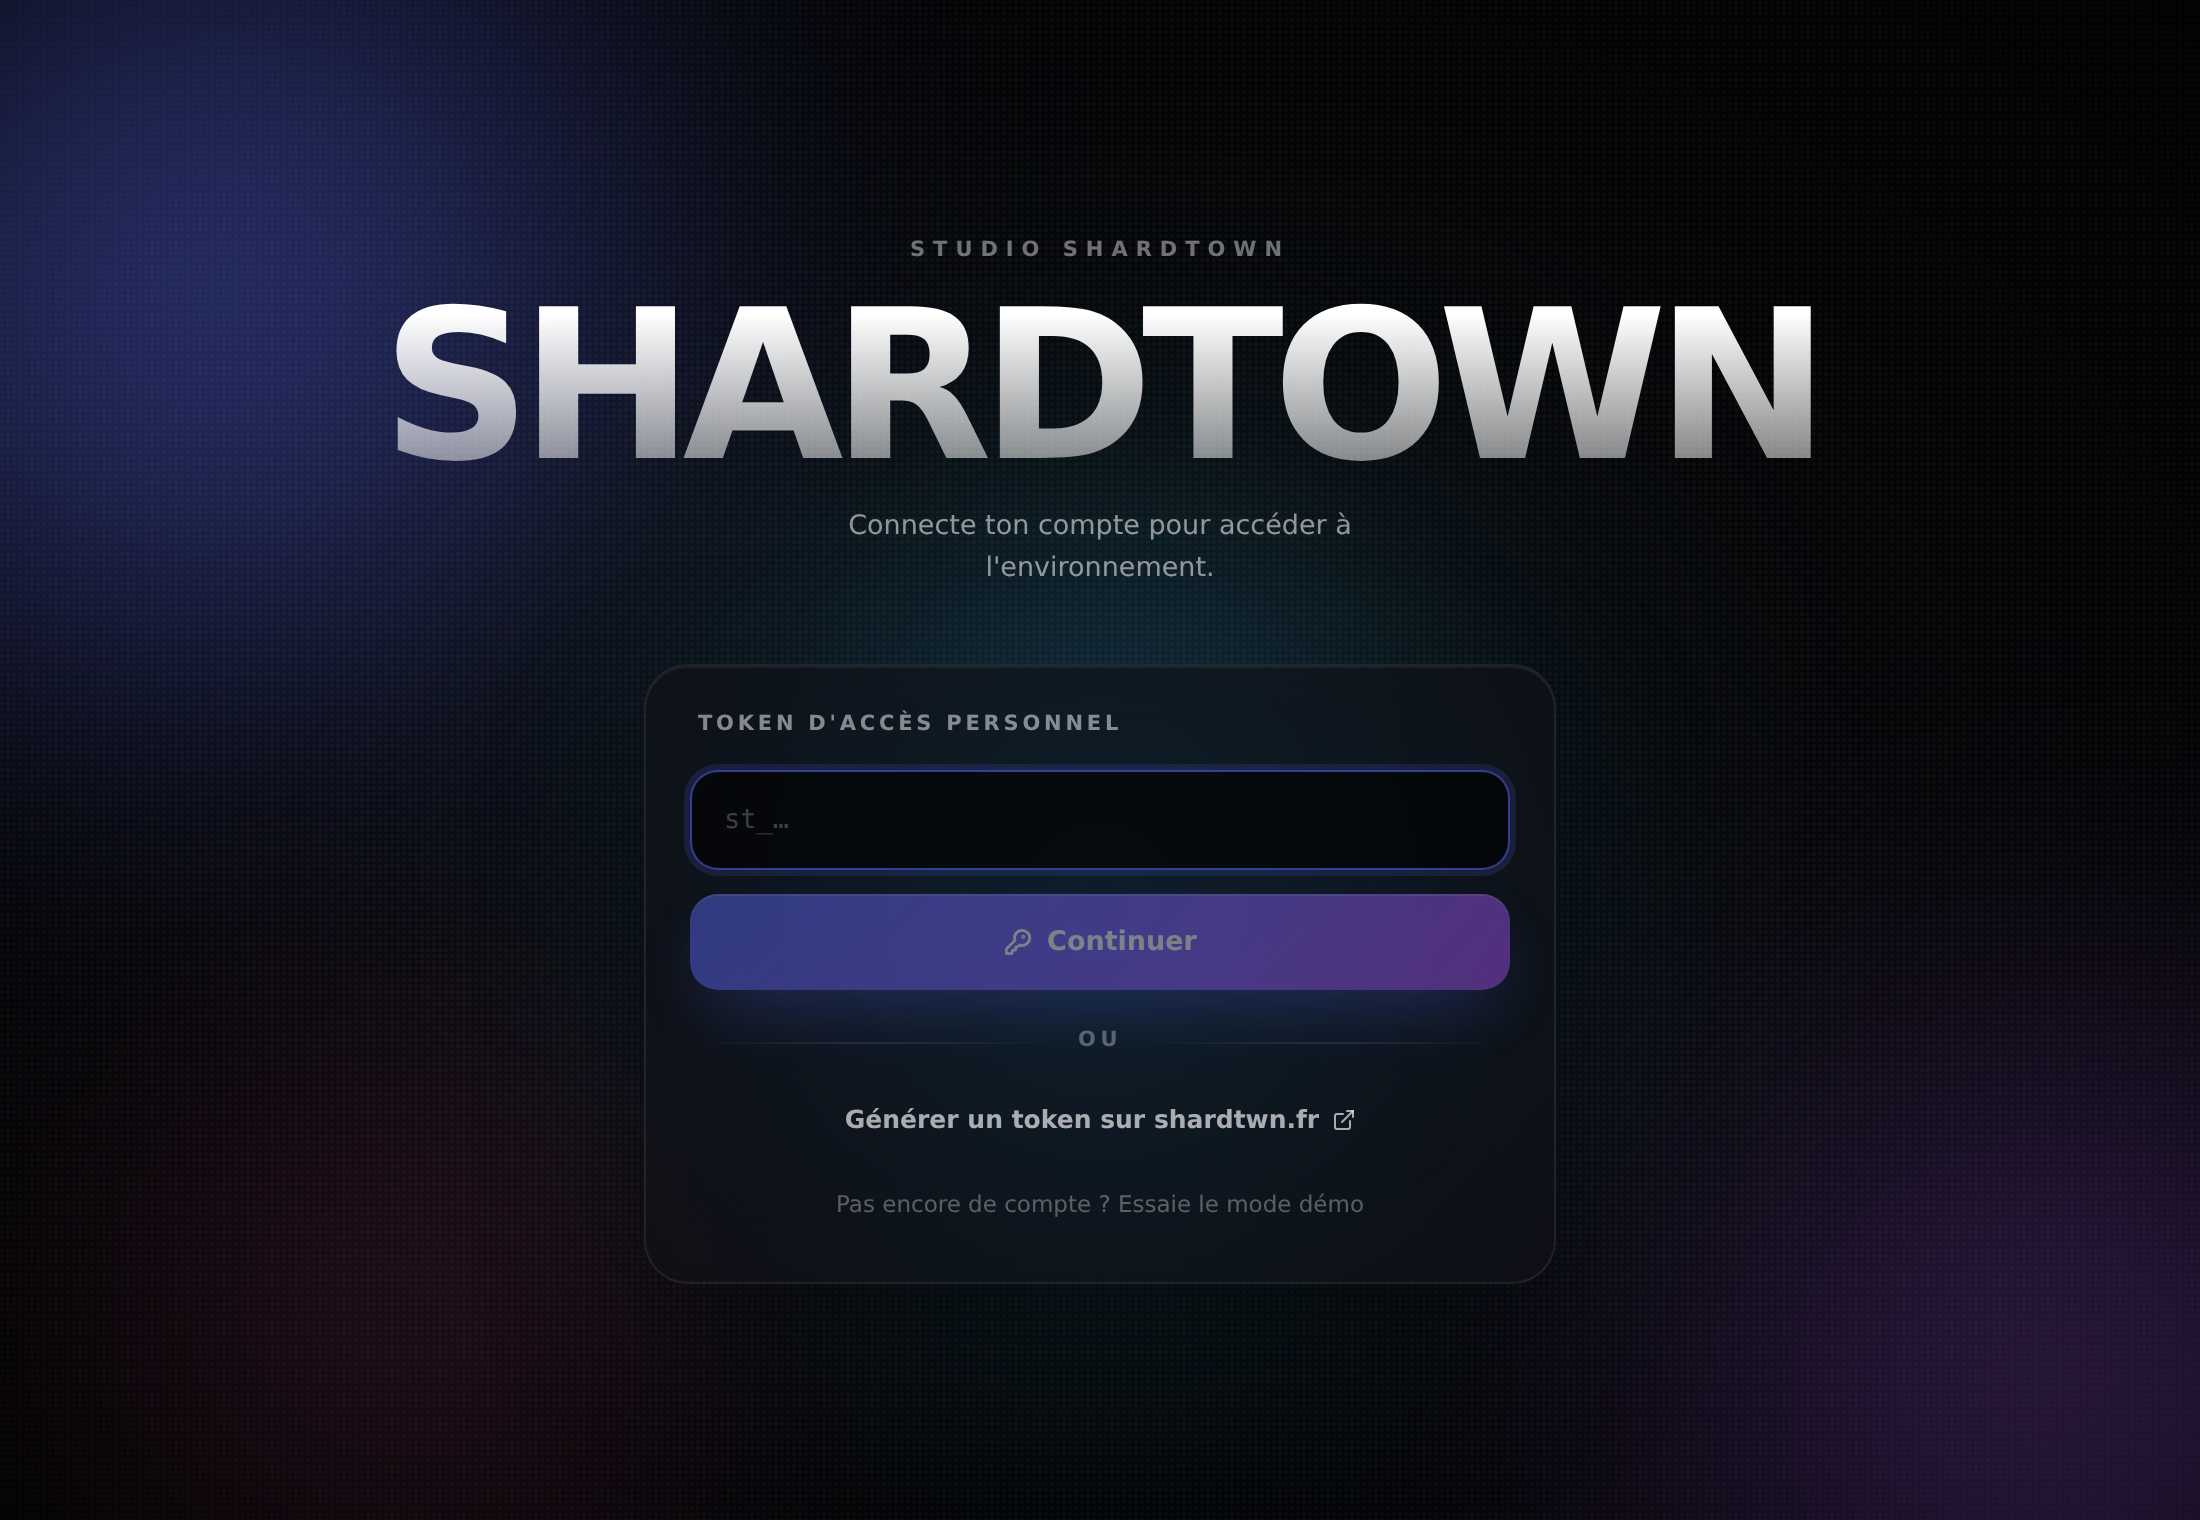
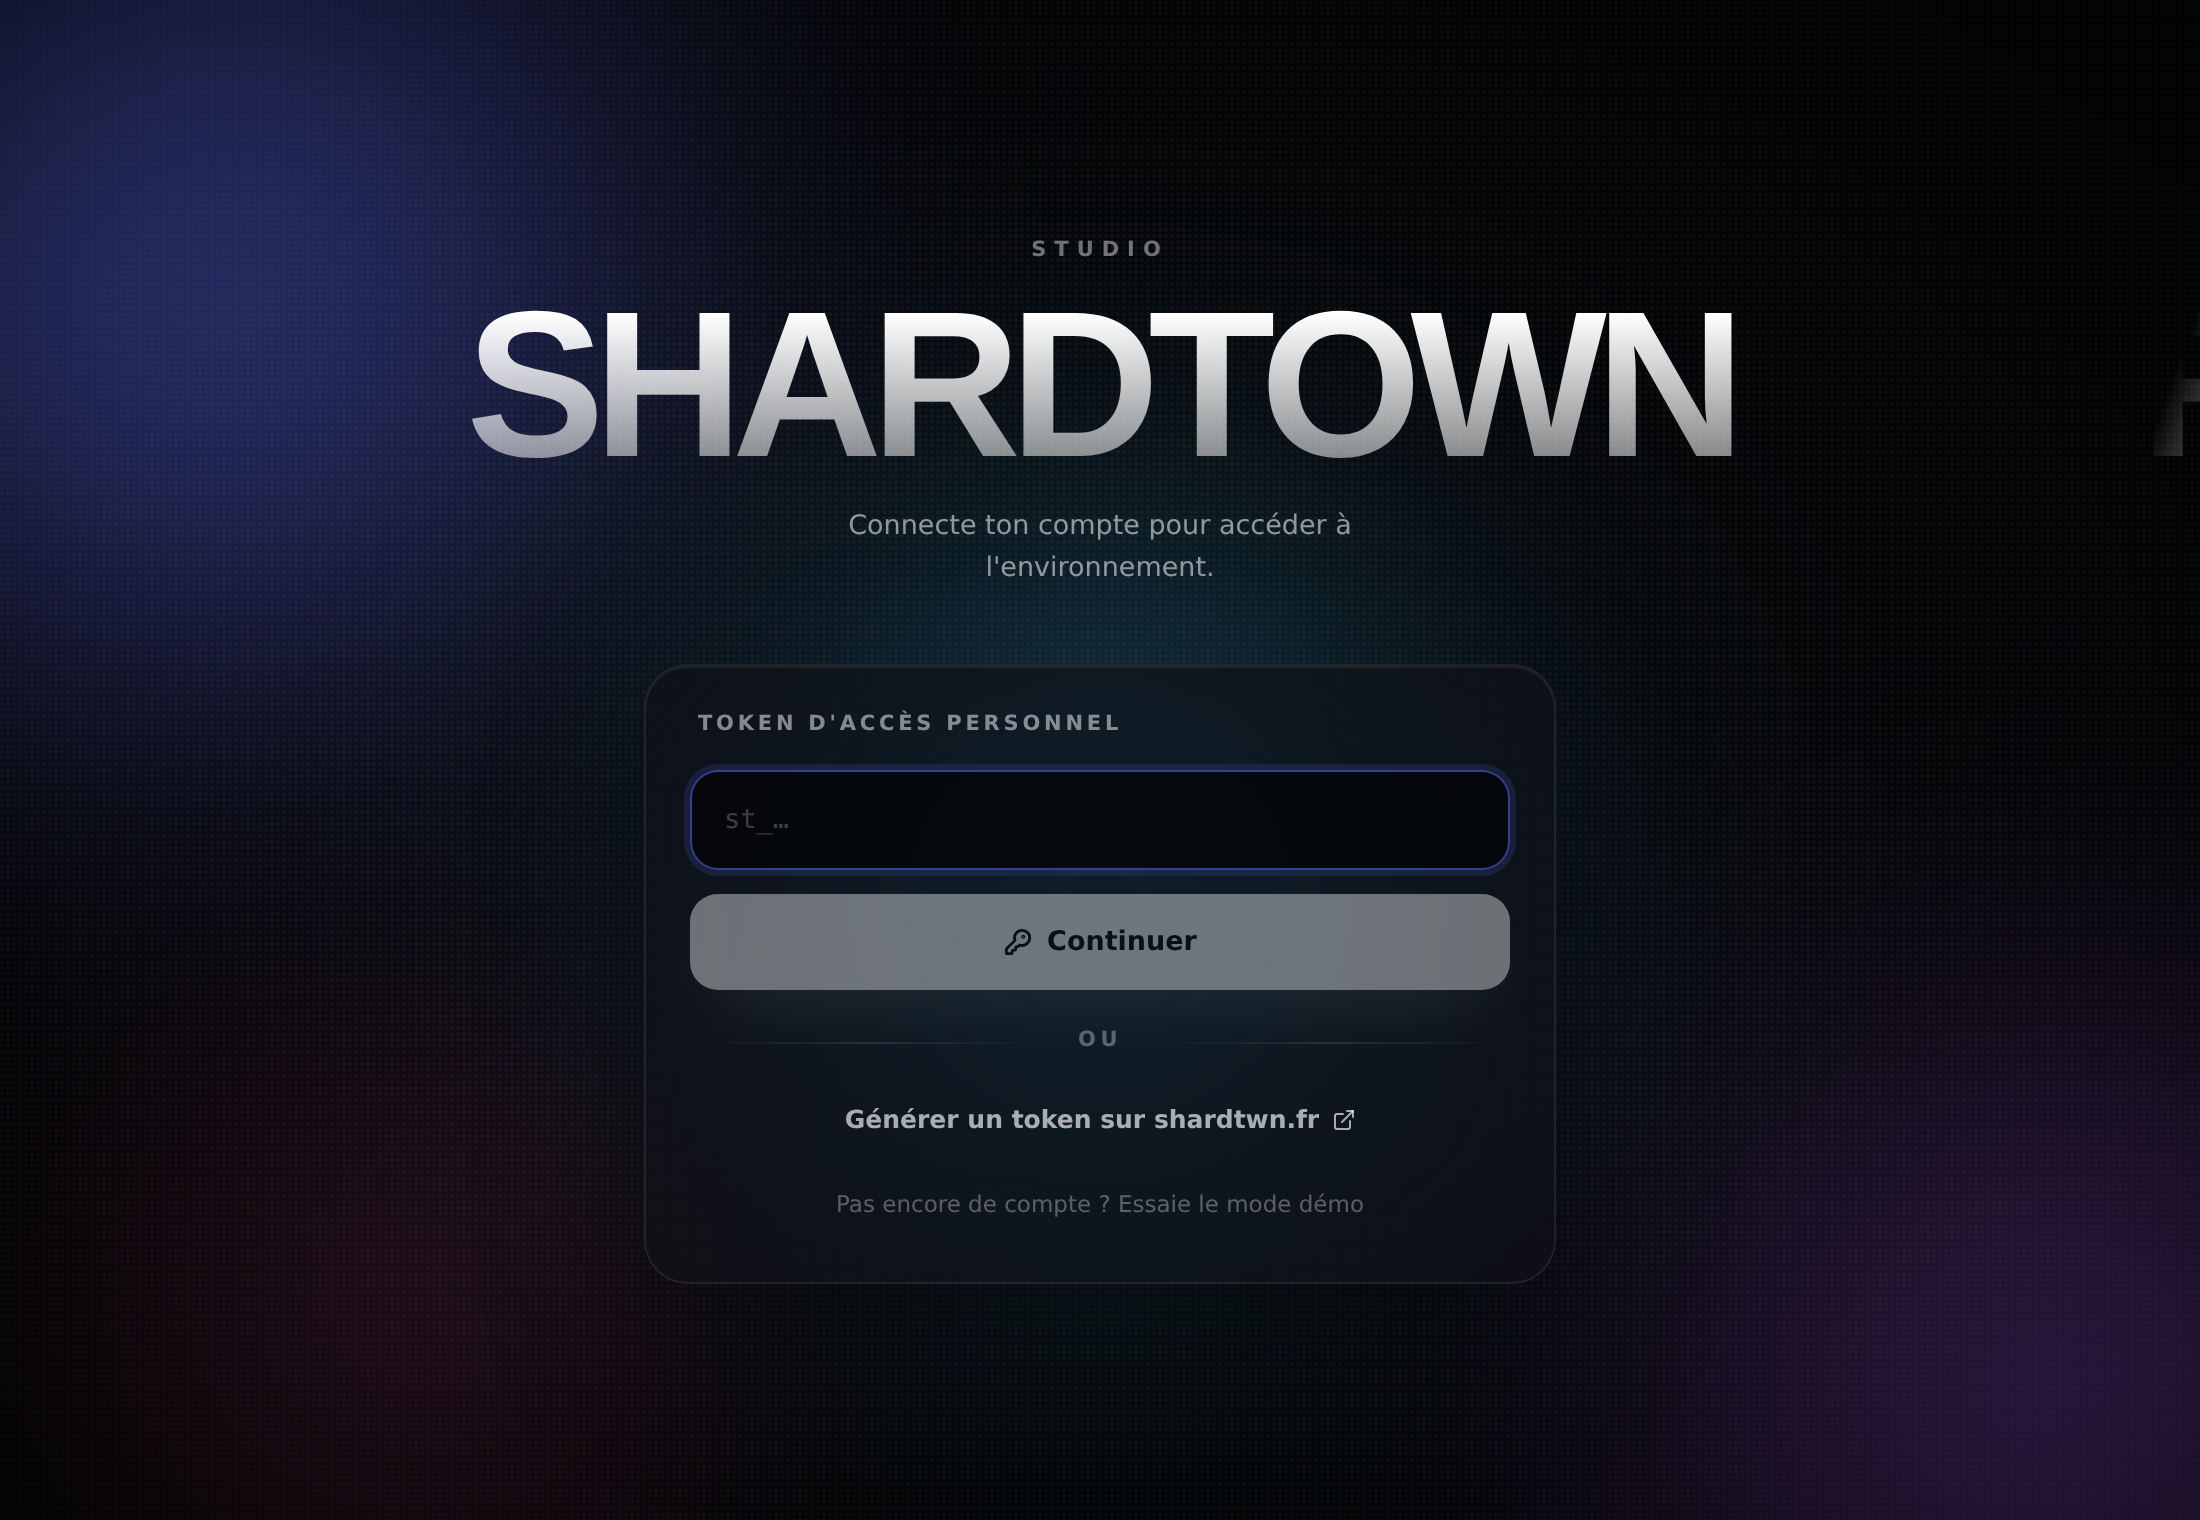
splash + login: label 'Studio' seul + bouton blanc + police Plus Jakarta Sans
- Label "Studio Shardtown" → juste "Studio" sur les 2 écrans : avec le
  wordmark SHARDTOWN juste dessous ça faisait "Studio Shardtown Shardtown"
- Wordmark passé en Plus Jakarta Sans (poids 800, uppercase, tracking
  -0.055em), comme le H1 SHARDTOWN de la homepage. La fonte est
  preconnectée + chargée directement dans index.html pour qu'elle soit
  dispo dès le 1er paint du splash (avant que index.css se charge)
- CTA "Continuer" du login passé en blanc plein (sur noir → contraste
  max, plus dans le ton du reste du desktop)

Changed region(s): [[0.1545, 0.1546, 0.8345, 0.3092], [0.3091, 0.5875, 0.7109, 0.6493], [0.9891, 0.2474, 1.0, 0.3092]]

diff --git a/status-app/src/components/DesktopGate.tsx b/status-app/src/components/DesktopGate.tsx
@@ -380,7 +380,7 @@ function DesktopLogin({
         <div className="dl-content">
           {/* Brand block — massive wordmark, mirrors the splash */}
           <div className="dl-brand">
-            <p className="dl-label">Studio Shardtown</p>
+            <p className="dl-label">Studio</p>
             <h1 className="dl-wordmark">SHARDTOWN</h1>
             <p className="dl-tag">Connecte ton compte pour accéder à l'environnement.</p>
           </div>
@@ -559,8 +559,12 @@ function DesktopLogin({
           }
           .dl-wordmark {
             position: relative;
+            /* Match the homepage wordmark — Plus Jakarta Sans extrabold,
+               uppercase, very tight tracking. */
+            font-family: "Plus Jakarta Sans", -apple-system, sans-serif;
             font-size: clamp(56px, 10vw, 104px);
-            font-weight: 900;
+            font-weight: 800;
+            text-transform: uppercase;
             letter-spacing: -0.055em;
             line-height: 0.88;
             margin: 0;
@@ -658,20 +662,20 @@ function DesktopLogin({
             cursor: pointer;
             font-size: 13.5px;
             font-weight: 700;
-            color: #fff;
-            background: linear-gradient(135deg, rgb(91, 109, 255) 0%, rgb(168, 85, 247) 100%);
+            color: #000;
+            background: #fff;
             box-shadow:
-              0 14px 36px -10px rgba(91, 109, 255, 0.7),
-              inset 0 1px 0 rgba(255, 255, 255, 0.2);
+              0 14px 36px -10px rgba(255, 255, 255, 0.25),
+              inset 0 1px 0 rgba(255, 255, 255, 0.5);
             transition: transform 120ms ease, opacity 120ms ease, box-shadow 200ms ease;
           }
           .dl-cta:hover:not(:disabled) {
             box-shadow:
-              0 18px 44px -10px rgba(168, 85, 247, 0.75),
-              inset 0 1px 0 rgba(255, 255, 255, 0.25);
+              0 18px 44px -10px rgba(255, 255, 255, 0.35),
+              inset 0 1px 0 rgba(255, 255, 255, 0.65);
           }
           .dl-cta:active:not(:disabled) { transform: scale(0.99); }
-          .dl-cta:disabled { opacity: 0.45; cursor: not-allowed; }
+          .dl-cta:disabled { opacity: 0.4; cursor: not-allowed; }
 
           .dl-divider {
             display: flex;

diff --git a/status-app/index.html b/status-app/index.html
@@ -6,6 +6,15 @@
     <meta name="viewport" content="width=device-width, initial-scale=1.0" />
     <title>SHARDTOWN</title>
     <!--
+      Preload Plus Jakarta Sans so the splash wordmark renders in the
+      site's font from the very first paint. Without these `<link>`s the
+      splash would briefly use the system fallback before PJS swaps in,
+      and the "S" feels off.
+    -->
+    <link rel="preconnect" href="https://fonts.googleapis.com">
+    <link rel="preconnect" href="https://fonts.gstatic.com" crossorigin>
+    <link rel="stylesheet" href="https://fonts.googleapis.com/css2?family=Plus+Jakarta+Sans:wght@500;700;800&display=swap">
+    <!--
       Splash screen — inline so the first paint of the WebView already
       shows the brand + ambient motion. Aurora gradients, massive
       wordmark with running shimmer, shimmer sweep on the logo, slim
@@ -17,7 +26,7 @@
         margin: 0;
         background: #050608;
         color: #fff;
-        font-family: -apple-system, BlinkMacSystemFont, "Inter", "Segoe UI", system-ui, sans-serif;
+        font-family: "Plus Jakarta Sans", -apple-system, BlinkMacSystemFont, "Inter", "Segoe UI", system-ui, sans-serif;
         -webkit-font-smoothing: antialiased;
       }
       #shardtown-splash {
@@ -111,8 +120,12 @@
       }
       #shardtown-splash .ss-wordmark {
         position: relative;
+        /* Match the homepage SHARDTOWN wordmark: Plus Jakarta Sans
+           extrabold uppercase, very tight tracking. */
+        font-family: "Plus Jakarta Sans", -apple-system, sans-serif;
         font-size: clamp(72px, 13vw, 156px);
-        font-weight: 900;
+        font-weight: 800;
+        text-transform: uppercase;
         letter-spacing: -0.055em;
         line-height: 0.9;
         margin: 0;
@@ -227,7 +240,7 @@
       <div class="ss-vignette"></div>
 
       <div class="ss-stack">
-        <p class="ss-label">Studio Shardtown</p>
+        <p class="ss-label">Studio</p>
         <h1 class="ss-wordmark">SHARDTOWN</h1>
         <p class="ss-tag">Ouverture de l'environnement…</p>
       </div>
